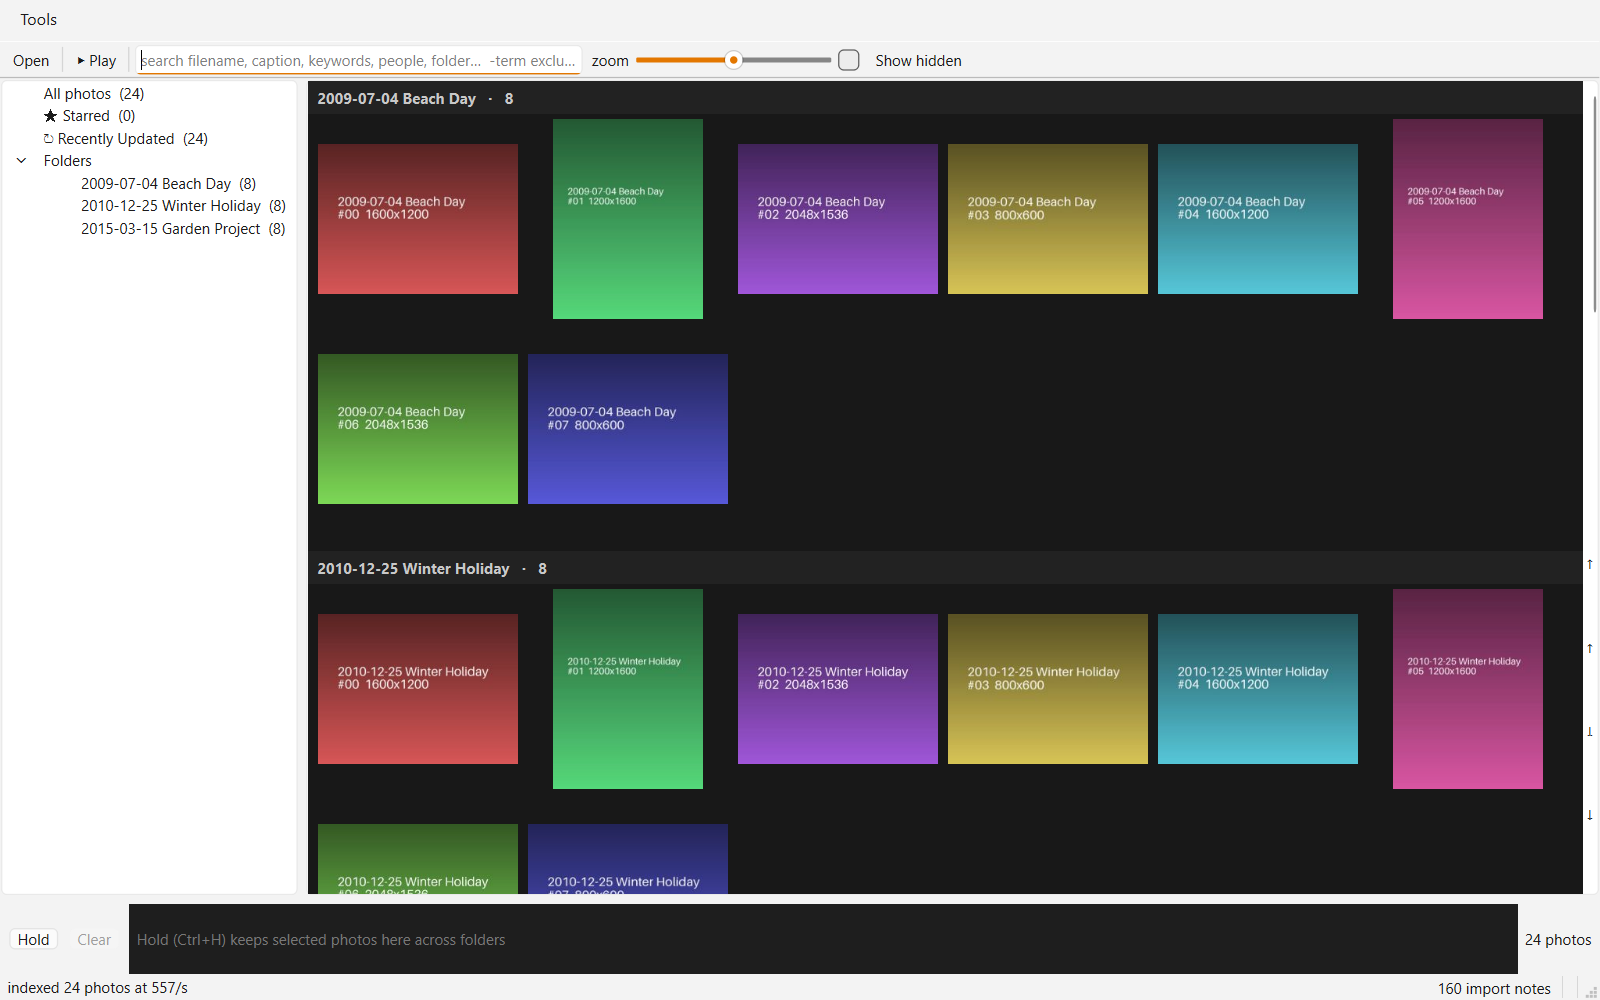
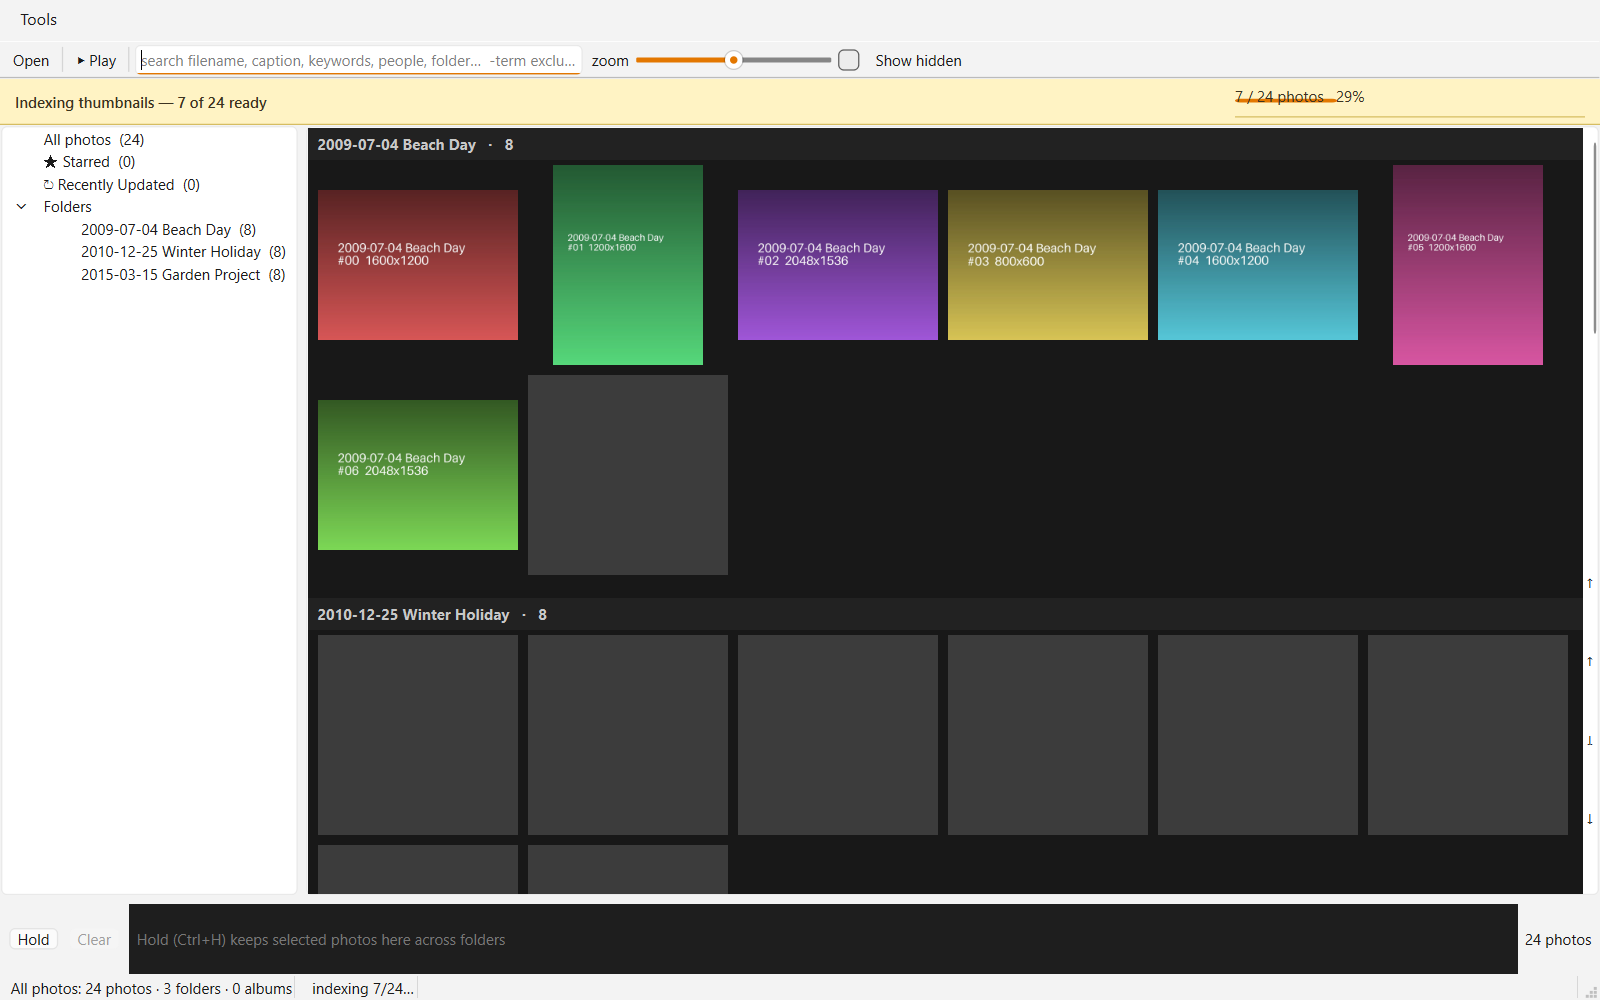
Show progressive Tracer indexing below toolbar (#93)
* fix(tracer): surface progressive indexing

* docs(tracer): refresh friend guide for UX fixes

diff --git a/docs/releases/tracer-test-v1.html b/docs/releases/tracer-test-v1.html
@@ -106,7 +106,7 @@
 
   <figure>
     <img src="tracer-test-v1-gallery.png" alt="Fauxcasa preview showing a folder tree, photo gallery, search bar, zoom control, and indexing status">
-    <figcaption>The tracer-test-v1 gallery on Windows, using the synthetic test library. The folder tree is at left and indexing progress appears along the bottom.</figcaption>
+    <figcaption>The tracer-test-v1 gallery on Windows, using the synthetic test library. The folder tree is at left; the refreshed build keeps indexing progress directly below the toolbar.</figcaption>
   </figure>
 
   <h2>Get the preview</h2>
@@ -121,8 +121,9 @@
   <h2>Essential controls</h2>
   <table>
     <tr><th>Open a photo</th><td>Double-click it, or select it and press <kbd>Enter</kbd>.</td></tr>
-    <tr><th>Return to gallery</th><td>Press <kbd>Esc</kbd> to restore the gallery and folder tree.</td></tr>
+    <tr><th>Return to gallery</th><td>Choose <strong>← Gallery (Esc)</strong> in the toolbar or press <kbd>Esc</kbd> to restore the gallery and folder tree.</td></tr>
     <tr><th>Previous / next</th><td>Use <kbd>←</kbd>/<kbd>→</kbd> or <kbd>J</kbd>/<kbd>K</kbd> while viewing a photo.</td></tr>
+    <tr><th>Add / remove star</th><td>Press <kbd>Space</kbd> in the gallery or single-photo view. The choice is stored only in Fauxcasa’s local cache.</td></tr>
     <tr><th>Actual-size view</th><td>Press <kbd>1</kbd> or <kbd>Ctrl</kbd>+<kbd>Alt</kbd>+<kbd>0</kbd>; drag to pan.</td></tr>
     <tr><th>Face boxes</th><td>Press <kbd>F</kbd> while viewing a photo that has imported face regions.</td></tr>
     <tr><th>Slideshow</th><td>Choose <strong>Play</strong> in the gallery toolbar; <kbd>Space</kbd> pauses or resumes the slideshow.</td></tr>
@@ -135,17 +136,18 @@
     <li>Imports Picasa <code>.picasa.ini</code>, <code>.pal</code>, contacts, and selected db3 recovery data.</li>
     <li>Displays imported captions, stars, albums, faces, crops, hidden state, dates, GPS, and ratings.</li>
     <li>Searches filenames, captions, keywords, people, and folder names.</li>
+    <li>Shows determinate indexing progress below the toolbar and fills completed gallery thumbnails as they become ready.</li>
     <li>Stills, RAW rendering, PSD fallback, video poster frames, viewer, zoom/pan, hover preview, and slideshow.</li>
     <li>Multi-root libraries and tolerance for temporarily offline volumes.</li>
   </ul>
 
   <h2>Storage and Picasa data</h2>
-  <p>The preview does <strong>not</strong> write to photos, Picasa sidecars, or the Picasa database. It stores only its own rebuildable catalog, configuration, log, and thumbnail cache under the current user’s cache directory.</p>
+  <p>The preview does <strong>not</strong> write to photos, Picasa sidecars, or the Picasa database. It stores only its own catalog, Fauxcasa star choices, configuration, log, and thumbnail cache under the current user’s cache directory.</p>
   <p>It reads existing Picasa sidecars for stars, captions, keywords, rotation, hidden flags, albums, and folder descriptions. It can also read Picasa album, contacts, and db3 sources from the normal Windows locations. Durable write support is future work.</p>
 
   <h2>Important limitations</h2>
   <ul>
-    <li><strong>Read-only alpha:</strong> editing, tagging, exporting, and all other write operations are absent.</li>
+    <li><strong>Source-library read-only alpha:</strong> editing, keyword tagging, exporting, and writes back to Picasa are absent. Space-bar star choices are Fauxcasa-local only.</li>
     <li>Videos show poster frames but do not play yet.</li>
     <li>The initial directory walk happens before the window appears. A large or network-hosted library may take time to show the first window.</li>
     <li>Original-media decoding is not sandboxed yet. Use only files you trust.</li>

diff --git a/apps/desktop-python/main.py b/apps/desktop-python/main.py
@@ -51,10 +51,12 @@ from PySide6.QtGui import QActionGroup, QPalette
 from PySide6.QtWidgets import (
     QApplication,
     QCheckBox,
+    QHBoxLayout,
     QLabel,
     QLineEdit,
     QMainWindow,
     QMenu,
+    QProgressBar,
     QSlider,
     QSplitter,
     QStackedWidget,
@@ -1153,7 +1155,35 @@ class MainWindow(QMainWindow):
         self.pages = QStackedWidget()
         self.pages.addWidget(browser)
         self.pages.addWidget(self.viewer)
-        self.setCentralWidget(self.pages)
+
+        # Prominent, non-modal activity row directly below the toolbar.
+        # Cold indexing used to whisper only in the bottom status bar; on a
+        # multi-thousand-photo first run that looked indistinguishable from a
+        # stalled gallery. Keep secondary details below, but put the ongoing
+        # operation and determinate progress where eyes already are.
+        self.activity_row = QWidget()
+        self.activity_row.setStyleSheet(
+            "background: #fff3c4; color: #3c3320; border-bottom: 1px solid "
+            "#d6bd62;")
+        activity_lay = QHBoxLayout(self.activity_row)
+        activity_lay.setContentsMargins(12, 6, 12, 6)
+        self.activity_label = QLabel()
+        self.activity_label.setStyleSheet("font-weight: 600; border: none;")
+        self.activity_progress = QProgressBar()
+        self.activity_progress.setTextVisible(True)
+        self.activity_progress.setMinimumWidth(280)
+        self.activity_progress.setMaximumWidth(320)
+        activity_lay.addWidget(self.activity_label, 1)
+        activity_lay.addWidget(self.activity_progress)
+        self.activity_row.hide()
+
+        central = QWidget()
+        central_lay = QVBoxLayout(central)
+        central_lay.setContentsMargins(0, 0, 0, 0)
+        central_lay.setSpacing(0)
+        central_lay.addWidget(self.activity_row)
+        central_lay.addWidget(self.pages, 1)
+        self.setCentralWidget(central)
 
         # --- status bar ---
         self.setStatusBar(QStatusBar())
@@ -1252,6 +1282,13 @@ class MainWindow(QMainWindow):
         bridge, catalog = self._bridge, self.catalog
         done = [0]  # results arrive out of order; count completions, not idx
         total_photos = len(catalog.photos)
+        # Decode what the gallery can show before hidden/cache-only entries.
+        # The grid's display order is already folder-grouped and begins at the
+        # current viewport, so this is also the most useful publication order.
+        gallery_order = list(self.grid.display)
+        self._show_activity(
+            "Indexing thumbnails — gallery will fill as photos are ready",
+            0, total_photos)
 
         def cb(global_i: int, img) -> None:
             if img is not None:
@@ -1259,8 +1296,7 @@ class MainWindow(QMainWindow):
             else:
                 self.grid.feed_error(global_i)
             done[0] += 1
-            if done[0] % 5 == 0 or done[0] == total_photos:
-                _emit(bridge.progress, done[0], total_photos)
+            _emit(bridge.progress, done[0], total_photos)
 
         def work() -> None:
             try:
@@ -1293,9 +1329,19 @@ class MainWindow(QMainWindow):
                         def root_cb(i, _total, img, start=start):
                             cb(start + i, img)
 
+                        local_by_global = {
+                            global_i: local_i
+                            for local_i, global_i in enumerate(
+                                i for i, photo in enumerate(catalog.photos)
+                                if photo.root_id == root.id)
+                        }
+                        priority = [local_by_global[i] for i in gallery_order
+                                    if i in local_by_global]
+
                         one = build_cache(
                             catalog, build_dir, root_cb,
-                            cancel=self.build_cancel, root_id=root.id)
+                            cancel=self.build_cancel, root_id=root.id,
+                            priority_indices=priority)
                         if one is None:
                             return
                         built.append((root.id, one))
@@ -1311,7 +1357,8 @@ class MainWindow(QMainWindow):
                     result = build_cache(
                         catalog, build_dir,
                         lambda i, _total, img: cb(i, img),
-                        cancel=self.build_cancel)
+                        cancel=self.build_cancel,
+                        priority_indices=gallery_order)
                     if result is None:
                         return  # cancelled
                 save_catalog_retrying(catalog, build_dir / "catalog.json")
@@ -1443,6 +1490,7 @@ class MainWindow(QMainWindow):
         painted star badges, and — if the user is looking at the Recently
         Updated view outside a search — the view itself."""
         self.progress_label.setText("")
+        self._hide_activity()
         if not ok:
             return
         apply_star_overrides(self.catalog, self.star_overrides)
@@ -1459,9 +1507,14 @@ class MainWindow(QMainWindow):
 
     def _on_status(self, text: str) -> None:
         self.progress_label.setText(("   " + text) if text else "")
+        if text:
+            self._show_activity(text)
+        else:
+            self._hide_activity()
 
     def _on_index_finished(self, result, catalog, is_reconcile: bool) -> None:
         self.progress_label.setText("")
+        self._hide_activity()
         if result is None:
             if is_reconcile:
                 # A background refresh failure doesn't invalidate the
@@ -2404,6 +2457,25 @@ class MainWindow(QMainWindow):
 
     def _build_progress(self, done: int, total: int) -> None:
         self.progress_label.setText(f"   indexing {done}/{total}…")
+        self._show_activity(
+            f"Indexing thumbnails — {done:,} of {total:,} ready",
+            done, total)
+
+    def _show_activity(self, text: str, done: int | None = None,
+                       total: int | None = None) -> None:
+        self.activity_label.setText(text)
+        if done is None or total is None:
+            self.activity_progress.setRange(0, 0)  # honest busy indicator
+            self.activity_progress.setFormat("")
+        else:
+            maximum = max(1, total)
+            self.activity_progress.setRange(0, maximum)
+            self.activity_progress.setValue(min(done, maximum))
+            self.activity_progress.setFormat("%v / %m photos   %p%")
+        self.activity_row.show()
+
+    def _hide_activity(self) -> None:
+        self.activity_row.hide()
 
     # ---------- viewer ----------
 

diff --git a/apps/desktop-python/thumbcache.py b/apps/desktop-python/thumbcache.py
@@ -695,6 +695,19 @@ def _write_fcache(out: Path, levels: list[int],
     tmp.replace(out)
 
 
+def _index_submission_order(total: int,
+                            priority_indices: Sequence[int] | None) -> list[int]:
+    """Stable de-duplicated priority prefix followed by every other index."""
+    order: list[int] = []
+    seen: set[int] = set()
+    for i in priority_indices or ():
+        if 0 <= i < total and i not in seen:
+            order.append(i)
+            seen.add(i)
+    order.extend(i for i in range(total) if i not in seen)
+    return order
+
+
 def build_cache(
     catalog: Catalog,
     cache_dir: Path,
@@ -702,6 +715,7 @@ def build_cache(
     cancel: threading.Event | None = None,
     levels: Sequence[int] | None = None,
     root_id: str = LEGACY_ROOT_ID,
+    priority_indices: Sequence[int] | None = None,
 ) -> IndexResult | None:
     """Build a thumb cache for a (small) library and fill each photo's
     identity/staleness signals (size, mtime, sha256) into the catalog in
@@ -721,6 +735,12 @@ def build_cache(
     256 px level, i.e. a v1 cache byte-identical to the legacy format). Pass a
     set such as RECOMMENDED_LEVELS = (512, 256, 128) for a multi-resolution v2
     cache (include 256 so the grid's primary level is unaffected).
+
+    `priority_indices` is a best-effort local-index submission order. The
+    GUI supplies its visible gallery order on a cold build, so photos that
+    can actually appear in the current grid are decoded before hidden/cache-
+    only entries. Invalid/duplicate indices are ignored and every omitted
+    index is appended, so output identity and fcache byte order never change.
 
     A thread pool runs the per-photo index work; `progress(i, total,
     qimage_or_None)` fires as each completes (out of order) so the grid
@@ -744,8 +764,10 @@ def build_cache(
         # dispatch (design §6 choke point) — a photo whose root is
         # missing/offline gets None and _index_one/read_photo_meta fail
         # soft on it (error tile), same as an unreadable file today.
-        futs = [pool.submit(_index_one, catalog.abs(p), p, i, levels)
-                for i, p in enumerate(photos)]
+        order = _index_submission_order(total, priority_indices)
+        futs = [pool.submit(_index_one, catalog.abs(photos[i]), photos[i],
+                            i, levels)
+                for i in order]
         for fut in as_completed(futs):
             if cancel is not None and cancel.is_set():
                 pool.shutdown(wait=False, cancel_futures=True)

diff --git a/apps/desktop-python/test_tracer.py b/apps/desktop-python/test_tracer.py
@@ -1511,6 +1511,35 @@ def test_mainwindow_wires_viewer_cache_on_build_and_reconcile(
     assert win.viewer.catalog is cat2 and win.viewer.thumbs is cache2
 
 
+def test_index_priority_is_stable_complete_and_filters_bad_indices() -> None:
+    """Gallery-first scheduling changes submission order only: duplicates
+    and nonsense are ignored and every cache index still appears once."""
+    assert thumbcache._index_submission_order(
+        7, [4, 1, 4, -1, 99, 3]) == [4, 1, 3, 0, 2, 5, 6]
+    assert thumbcache._index_submission_order(4, None) == [0, 1, 2, 3]
+
+
+def test_index_activity_row_is_prominent_and_determinate(
+        library: Path) -> None:
+    """Index progress is directly below the toolbar, not discoverable only
+    in the bottom status bar, and is removed once the job finishes."""
+    import main
+
+    _offscreen_app()
+    win = main.MainWindow(scan_library(library), None,
+                          cache_dir=None, build_dir=None)
+    assert win.activity_row.isHidden()
+    win._build_progress(37, 100)
+    assert not win.activity_row.isHidden()
+    assert win.activity_label.text() == \
+        "Indexing thumbnails — 37 of 100 ready"
+    assert win.activity_progress.maximum() == 100
+    assert win.activity_progress.value() == 37
+    assert win.progress_label.text() == "   indexing 37/100…"
+    win._on_index_finished(None, win.catalog, False)
+    assert win.activity_row.isHidden()
+
+
 def test_grid_stop_retires_decode_workers() -> None:
     """GridView.stop() retires its decode-worker pool so the daemons don't
     leak and accumulate across a process (fauxcasa-gfz). After stop() no worker

diff --git a/apps/desktop-python/README.md b/apps/desktop-python/README.md
@@ -18,7 +18,7 @@ source of truth.
 | Library scan in place | `catalog.py` | walk rule byte-identical to `make-thumbcache.py`, so catalog order == cache order |
 | Picasa metadata | `catalog.py` → `scripts/picasa_db.py` | stars, captions, keywords, rotate, hidden, albums, folder names/descriptions from `.picasa.ini` |
 | In-file metadata | `catalog.py` → `inmeta.py` (at index) | JPEG captions/keywords from XMP `dc:description`/`dc:subject` + IPTC 2:120/2:25 — in-file wins over the ini for tier-1 (§4). EXIF orientation baked at decode |
-| Thumbnail cache | `thumbcache.py` | reads/builds packed fcache; machine-local under `cache/tracer-cache/` (N1/N3); identity = sha256 + relpath, staleness = size+mtime cheap signals (N6). Parallel indexer (threads + **scaled decode**) — see below |
+| Thumbnail cache | `thumbcache.py` | reads/builds packed fcache; machine-local under `cache/tracer-cache/` (N1/N3); identity = sha256 + relpath, staleness = size+mtime cheap signals (N6). Parallel indexer (threads + **scaled decode**) prioritizes gallery-visible photos and publishes each completed thumbnail live; a determinate activity row directly below the toolbar makes cold-build progress unmistakable — see below |
 | Persistent catalog | `catalog.py` | full catalog (metadata + structure + signals) serialized to JSON; a **warm start loads it and skips the walk** (§7 cold start). Background reconcile diffs cheap signals and rebuilds + atomically swaps on drift |
 | Virtualized grid | `grid.py` | balloon lineage: threaded fcache decode, bounded LRU — plus event-driven repaint, real scrollbar, group headers w/ pinned current folder, selection, star badges, error tiles. Space toggles stars for the selected/current photos, persisted as machine-local Fauxcasa overrides without touching library files. Never reads originals (N4) |
 | Sidebar | `main.py` | All / Starred / folder tree (filesystem truth) / albums (pure references resolved from `albums=` tokens) |
